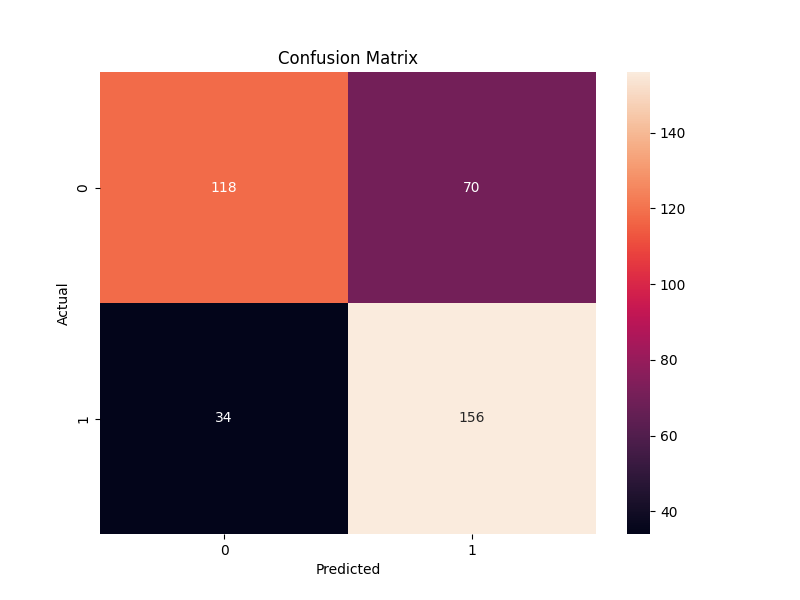
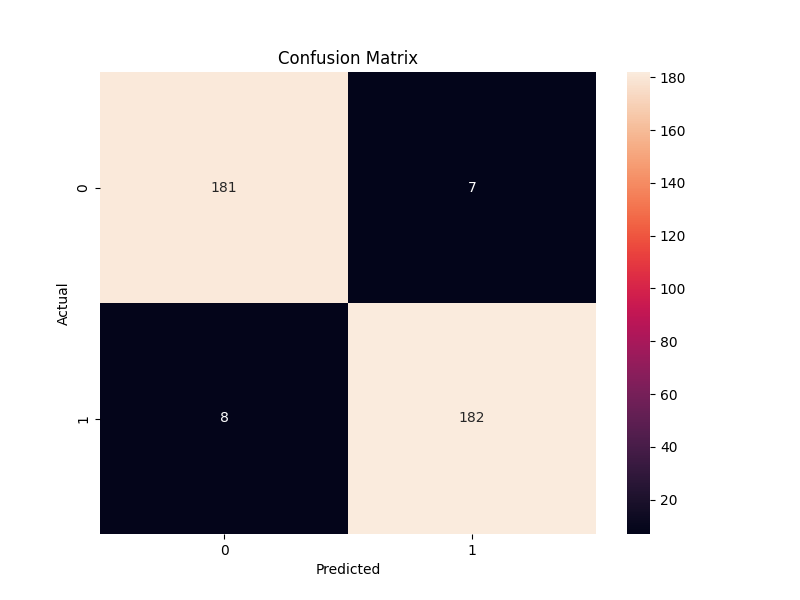
Run pipeline with Random Forest

diff --git a/train.py b/train.py
@@ -1,5 +1,5 @@
 import pandas as pd
-from sklearn.linear_model import LogisticRegression
+from sklearn.ensemble import RandomForestClassifier
 import joblib
 
 # Load the training data
@@ -9,9 +9,9 @@ X = df.iloc[:, :-1]
 y = df['target']
 
 # Train the model
-# Increased max_iter to 3000 to ensure convergence
-model = LogisticRegression(random_state=42, max_iter=3000)
-model.fit(X, y)
+# Create model with reproducible results
+model = RandomForestClassifier(random_state=42)
+model.fit(X, y) # [cite: 308]
 
 # Save the trained model file
 joblib.dump(model, 'model.joblib')
